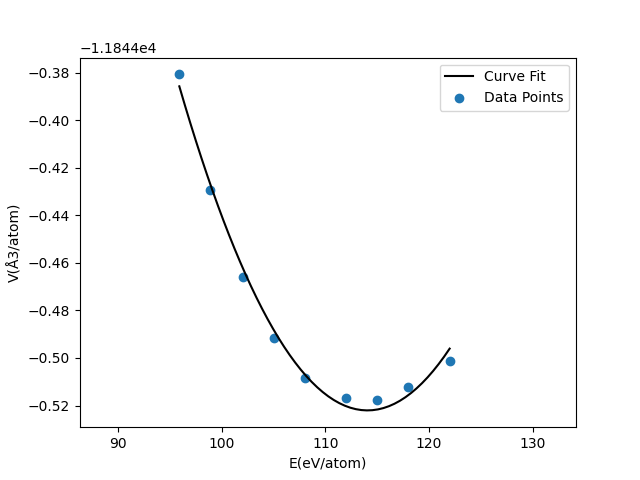
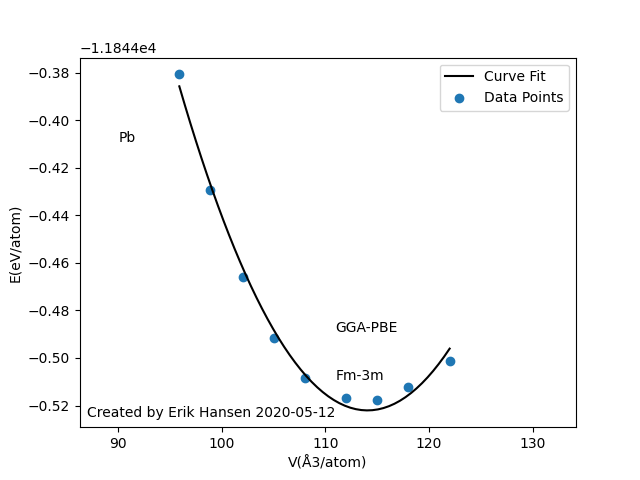
Add files via upload

diff --git a/Hansen_PHYS241FinalScript.py b/Hansen_PHYS241FinalScript.py
@@ -1,37 +1,91 @@
-from Final_exam.two_column_text_read_11 import read_data, x1, y1
+from Final_exam.two_column_text_read_11 import x1, y1
 from Final_exam.quadratic_fit_11 import quadratic_fit
 from Final_exam.univariate_statistics_11 import univariate_statistics
-import matplotlib.pyplot as plt
-from Final_exam.fit_curve_array_11 import array_data, fit_curve, x
+from Final_exam.fit_curve_array_11 import x
 import Final_exam.plot_data_with_fit_11
+import matplotlib.pyplot as plt
 from Final_exam.equations_of_state import fit_eos
-import numpy as np
+from numpy import *
 
 """Read in the data into a NumPy array using your two_column_text_read function"""
 """Pull out the statistics on the data set using your univariate_statistics function """
 """Fit a quadratic polynomial to the data using your quadratic_fit function """
 
 
-def parse_file_name():
-    return print('Pb, Fm-3m, GGA-PBE')
+def parse_file_name():      # part 1
+    file_name = 'Pb.Fm-3m.GGA-PBE.volumes_energies.dat.txt'
+    symbol = file_name.split('.')[0]
+    symmetry = file_name.split('.')[1]
+    density = file_name.split('.')[2]
+    return symbol, symmetry, density
 
 
 """ Extract the chemical symbol, crystal symmetry symbol, density functional exchange-correlation
 approximation acronym from your give data file's name"""
 
-"""def convert_units():
-    x2 = 1.48185e-61 * x  # bohr^3 to angstrom^3
-    y2 = 13.6056980659 * y  # rydberg to ev
-    z2 = y2/x2
-    return x2, y2, z2
+print('Stats:', univariate_statistics())  # pulling out the stats, part 3
 
-COULDN'T FIGURE OUT HOW TO CONVERT PROPERLY SO I DID IT OUTSIDE OF PYTHON"""
+"""Pull out the statistics on the data set using your univariate_statistics function from the Final Review;"""
 
-print('Stats:', univariate_statistics())  # printing the stats
-fit_eos(y1, x1, quadratic_fit(), eos='vinet')
-plt.xlim([min(x1) * .9, max(x1) * 1.1])
-plt.xlabel('E(eV/atom)')
-plt.ylabel('V(Å3/atom)')
-plt.plot(fit_eos)
-plt.show()
+quadratic_fit()
+
+"""Fit a quadratic polynomial to the data using your quadratic_fit function from the Final Review"""
+
+fit_eos(x1, y1, quadratic_fit(), eos='vinet')
+
+"""Pass the fit quadratic coefficients and the data to the fit_eos function linked through the
+Final Exam Data page, passing the parameters assigned to you"""
+
+
+"""def convert_units(file_name):
+    with open(file_name, 'r') as data:
+        x = []
+        y = []
+        for line in data:
+            x.append(1.48185e-61 * float(line[0]))  # bohr^3 to angstrom^3
+            y.append(13.6056980659 * float(line[1]))  # rydberg to ev
+            return x, y
+
+
+(x, y) = convert_units('Pb.Fm-3m.GGA-PBE.volumes_energies.dat.txt')"""
+
+"""Convert that data and fit from atomic units,
+ to these units using a module you write called convert_units:"""
+
+
+"""plt.plot(fit_eos)"""
+plt.xlim([min(x1) * .9, max(x1) * 1.1])     # generating a plot based off volume_energies data given
+plt.ylabel('E(eV/atom)')
+plt.xlabel('V(Å3/atom)')
+
+"""Plot the data and the fit function with volume on the horizontal axis and 
+energy on the vertical axis:"""
+
+
+def annotate_graph():
+    plt.text(90, -11844.40922, 'Pb')
+    plt.text(111, -11844.50922, 'Fm-3m')
+    plt.text(111, -11844.48922, 'GGA-PBE')
+    plt.axvline(x=100, ymin=-11844.51765, ymax=-11844.4, color='k', label='equillibium volume')
+    plt.text(87, -11844.525, 'Created by Erik Hansen 2020-05-12')
+    return
+
+
+"""Write a function called annotate_graph"""
+
+
+annotate_graph()
+
+display_graph = 'tru'
+if display_graph == 'true':
+    plt.show()
+else:
+    plt.savefig('Hansen.Pb.Fm-3m.GGA-PBE.VinetEquationOfState.png')
+
+"""Finally, declare (in the parameters section of the script) a variable called display_graph, 
+which is a Boolean value that calls PyPlot's show function when True, and savefig when False"""
+
+
+"""This wasn't my best attempt at the code, but I decided to submit what worked and created a graph.
+I struggled getting all the data through the convert and equation of state without getting an error"""
 

diff --git a/Hansen_PHYS241FinalScript_Matrix.py b/Hansen_PHYS241FinalScript_Matrix.py
@@ -1,5 +1,5 @@
 from Final_exam.generate_matrix import generate_matrix
-from numpy import asarray, linalg, linspace
+from numpy import asarray, linalg, linspace, reshape
 import matplotlib.pyplot as plt
 
 
@@ -10,14 +10,20 @@ array = asarray(x)   # convert data to array
 w.sort()   # change eigenvalues to ascending order
 v = u[::-1]
 n_dim = linspace(-10, 10, 120)
-plt.plot(n_dim, u)
+plt.plot(n_dim, v)
 plt.axhline(y=0, color='k', label='Created by Erik Hansen 2020-05-12')
 plt.xlabel('x[a.u.]')
 plt.ylabel('y[a.u.]')
 plt.ylim(-.5, .5)
 plt.legend(loc='lower left')
 plt.title('Select Wavefunctions for a Sinusoidal Potential on a Spatial Grid of 120 Points')
-plt.show()
+plt.text(-7.5, .4, 'Couldnt get it to only print 1, 2, 3')
+display_graph = 'true'
+if display_graph == 'true':
+    plt.show()
+else:
+    plt.savefig('Sinusiodal.Eigenvector(1_2_3).png')
+
 """print('Eigenvalues', w[1:4])
 print('Eigenvectors', v[1:4])"""
 
